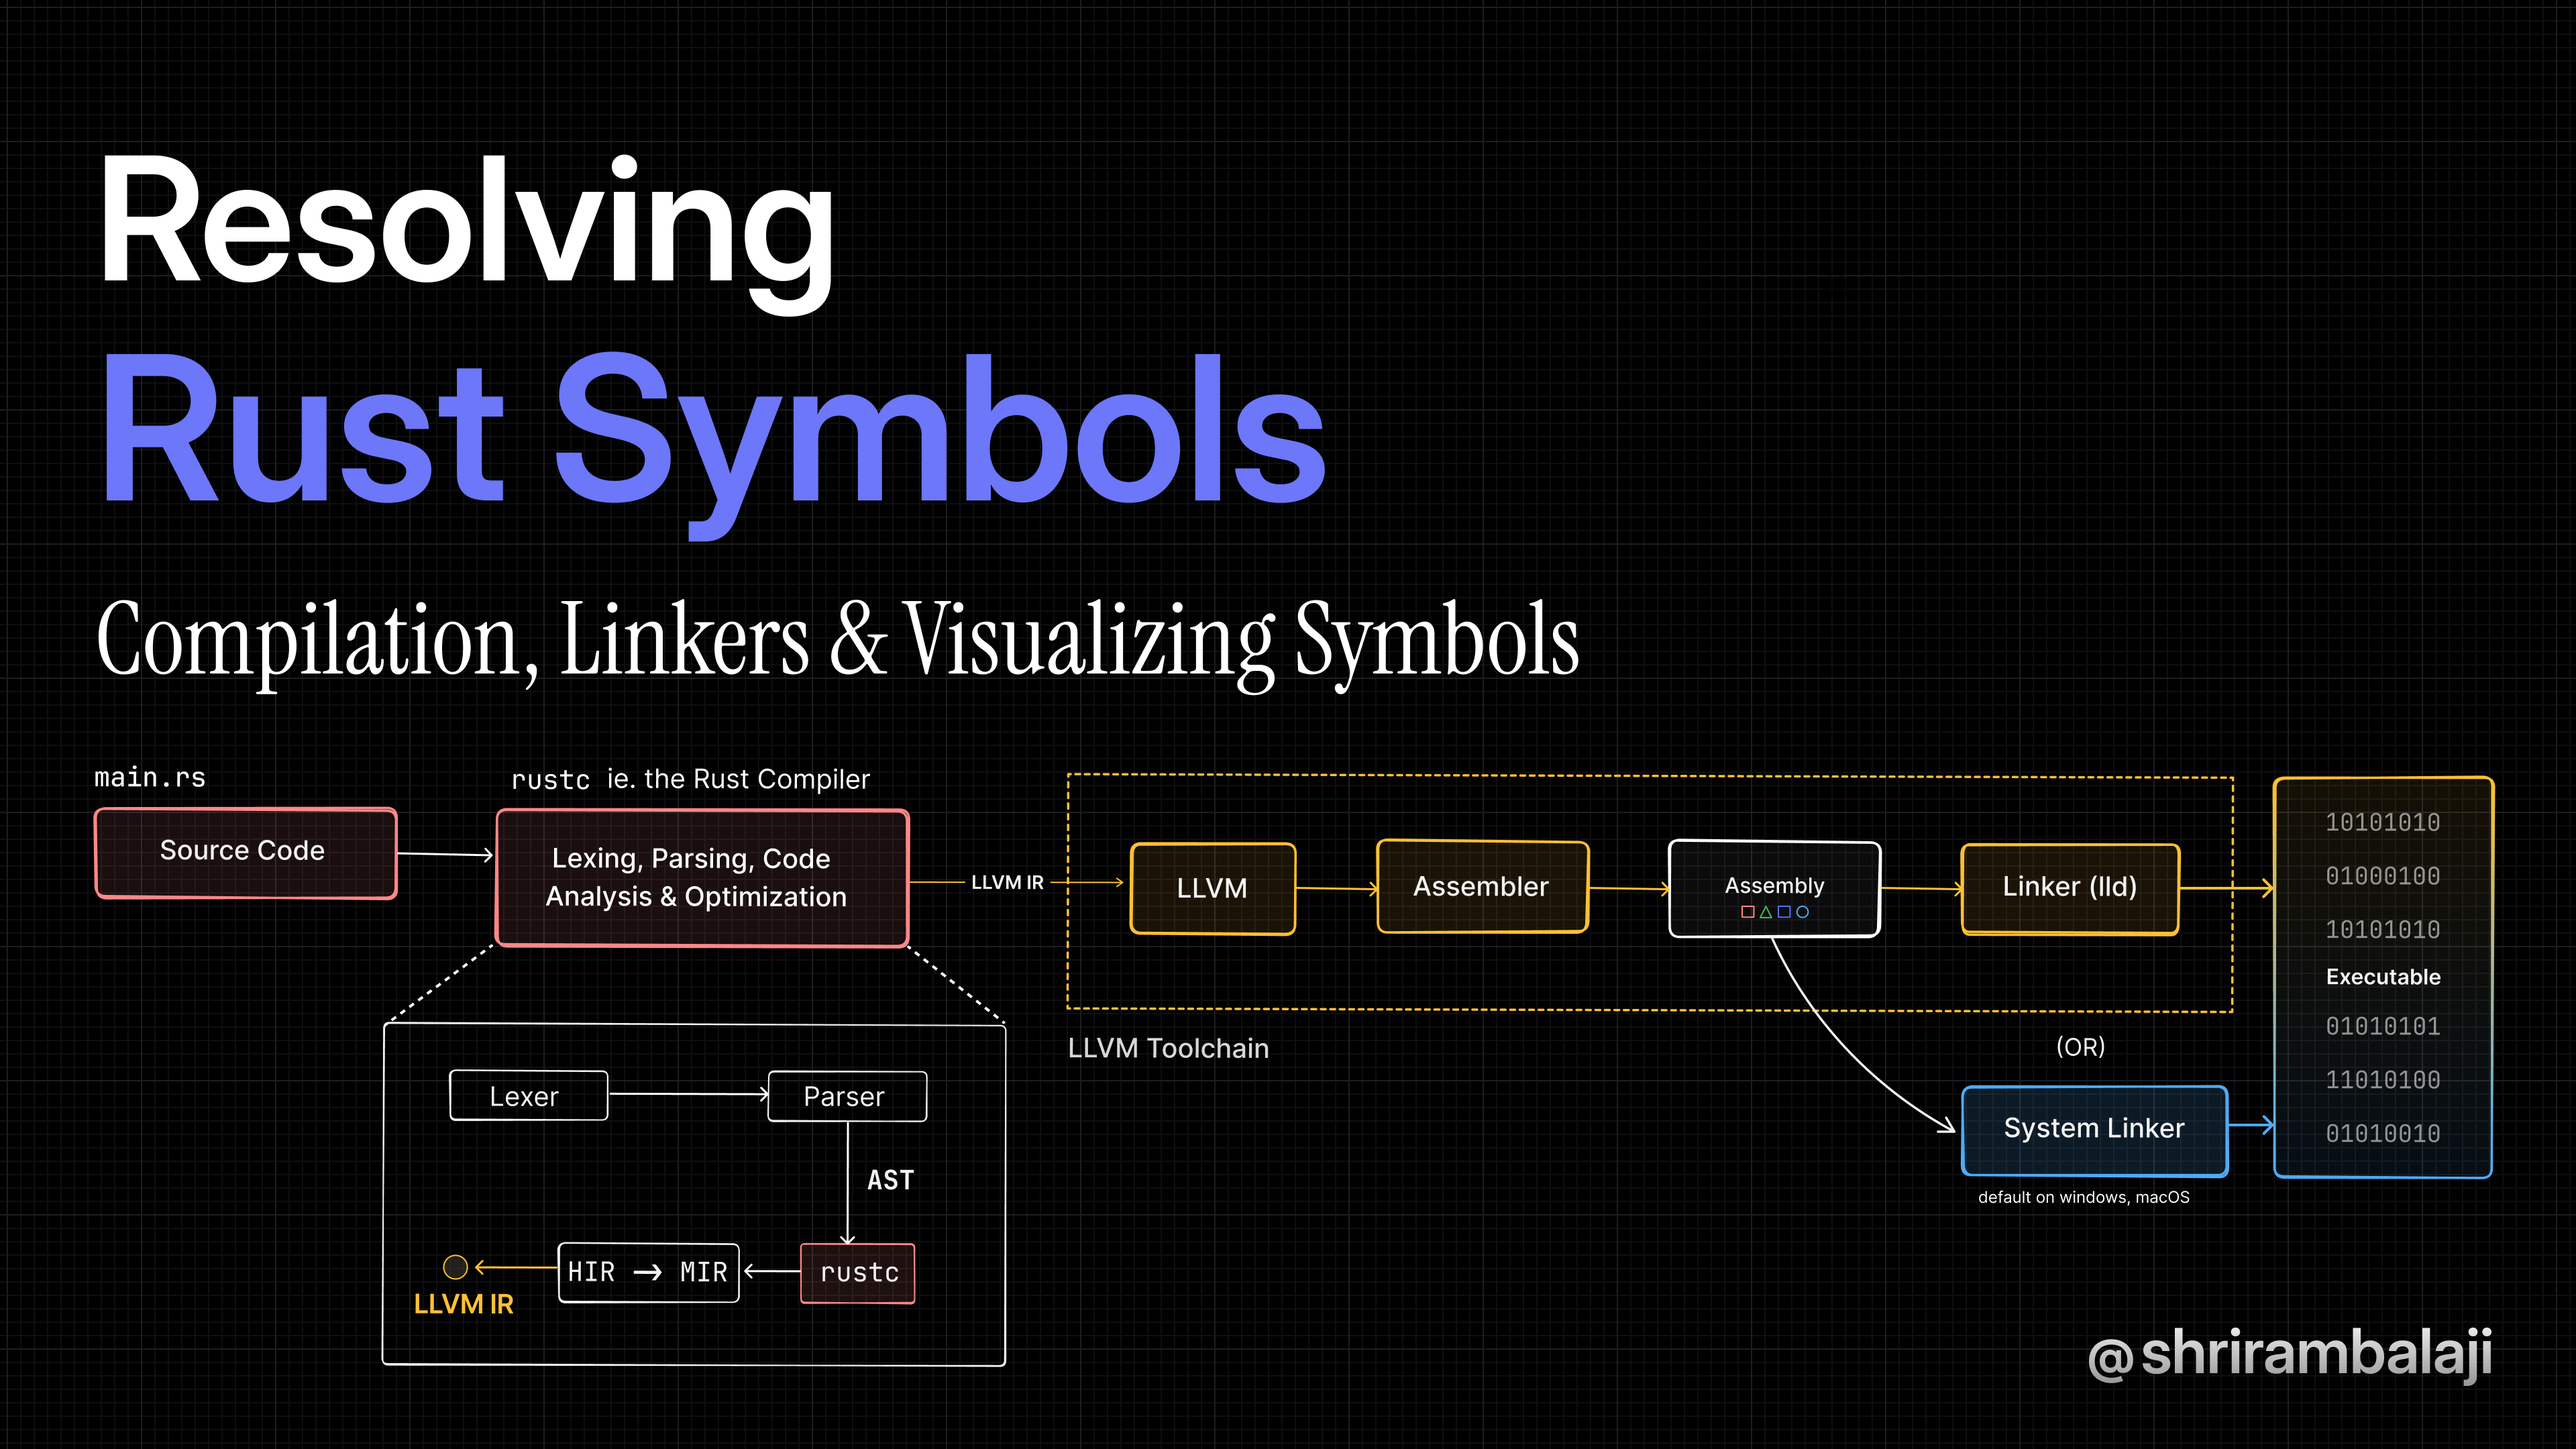
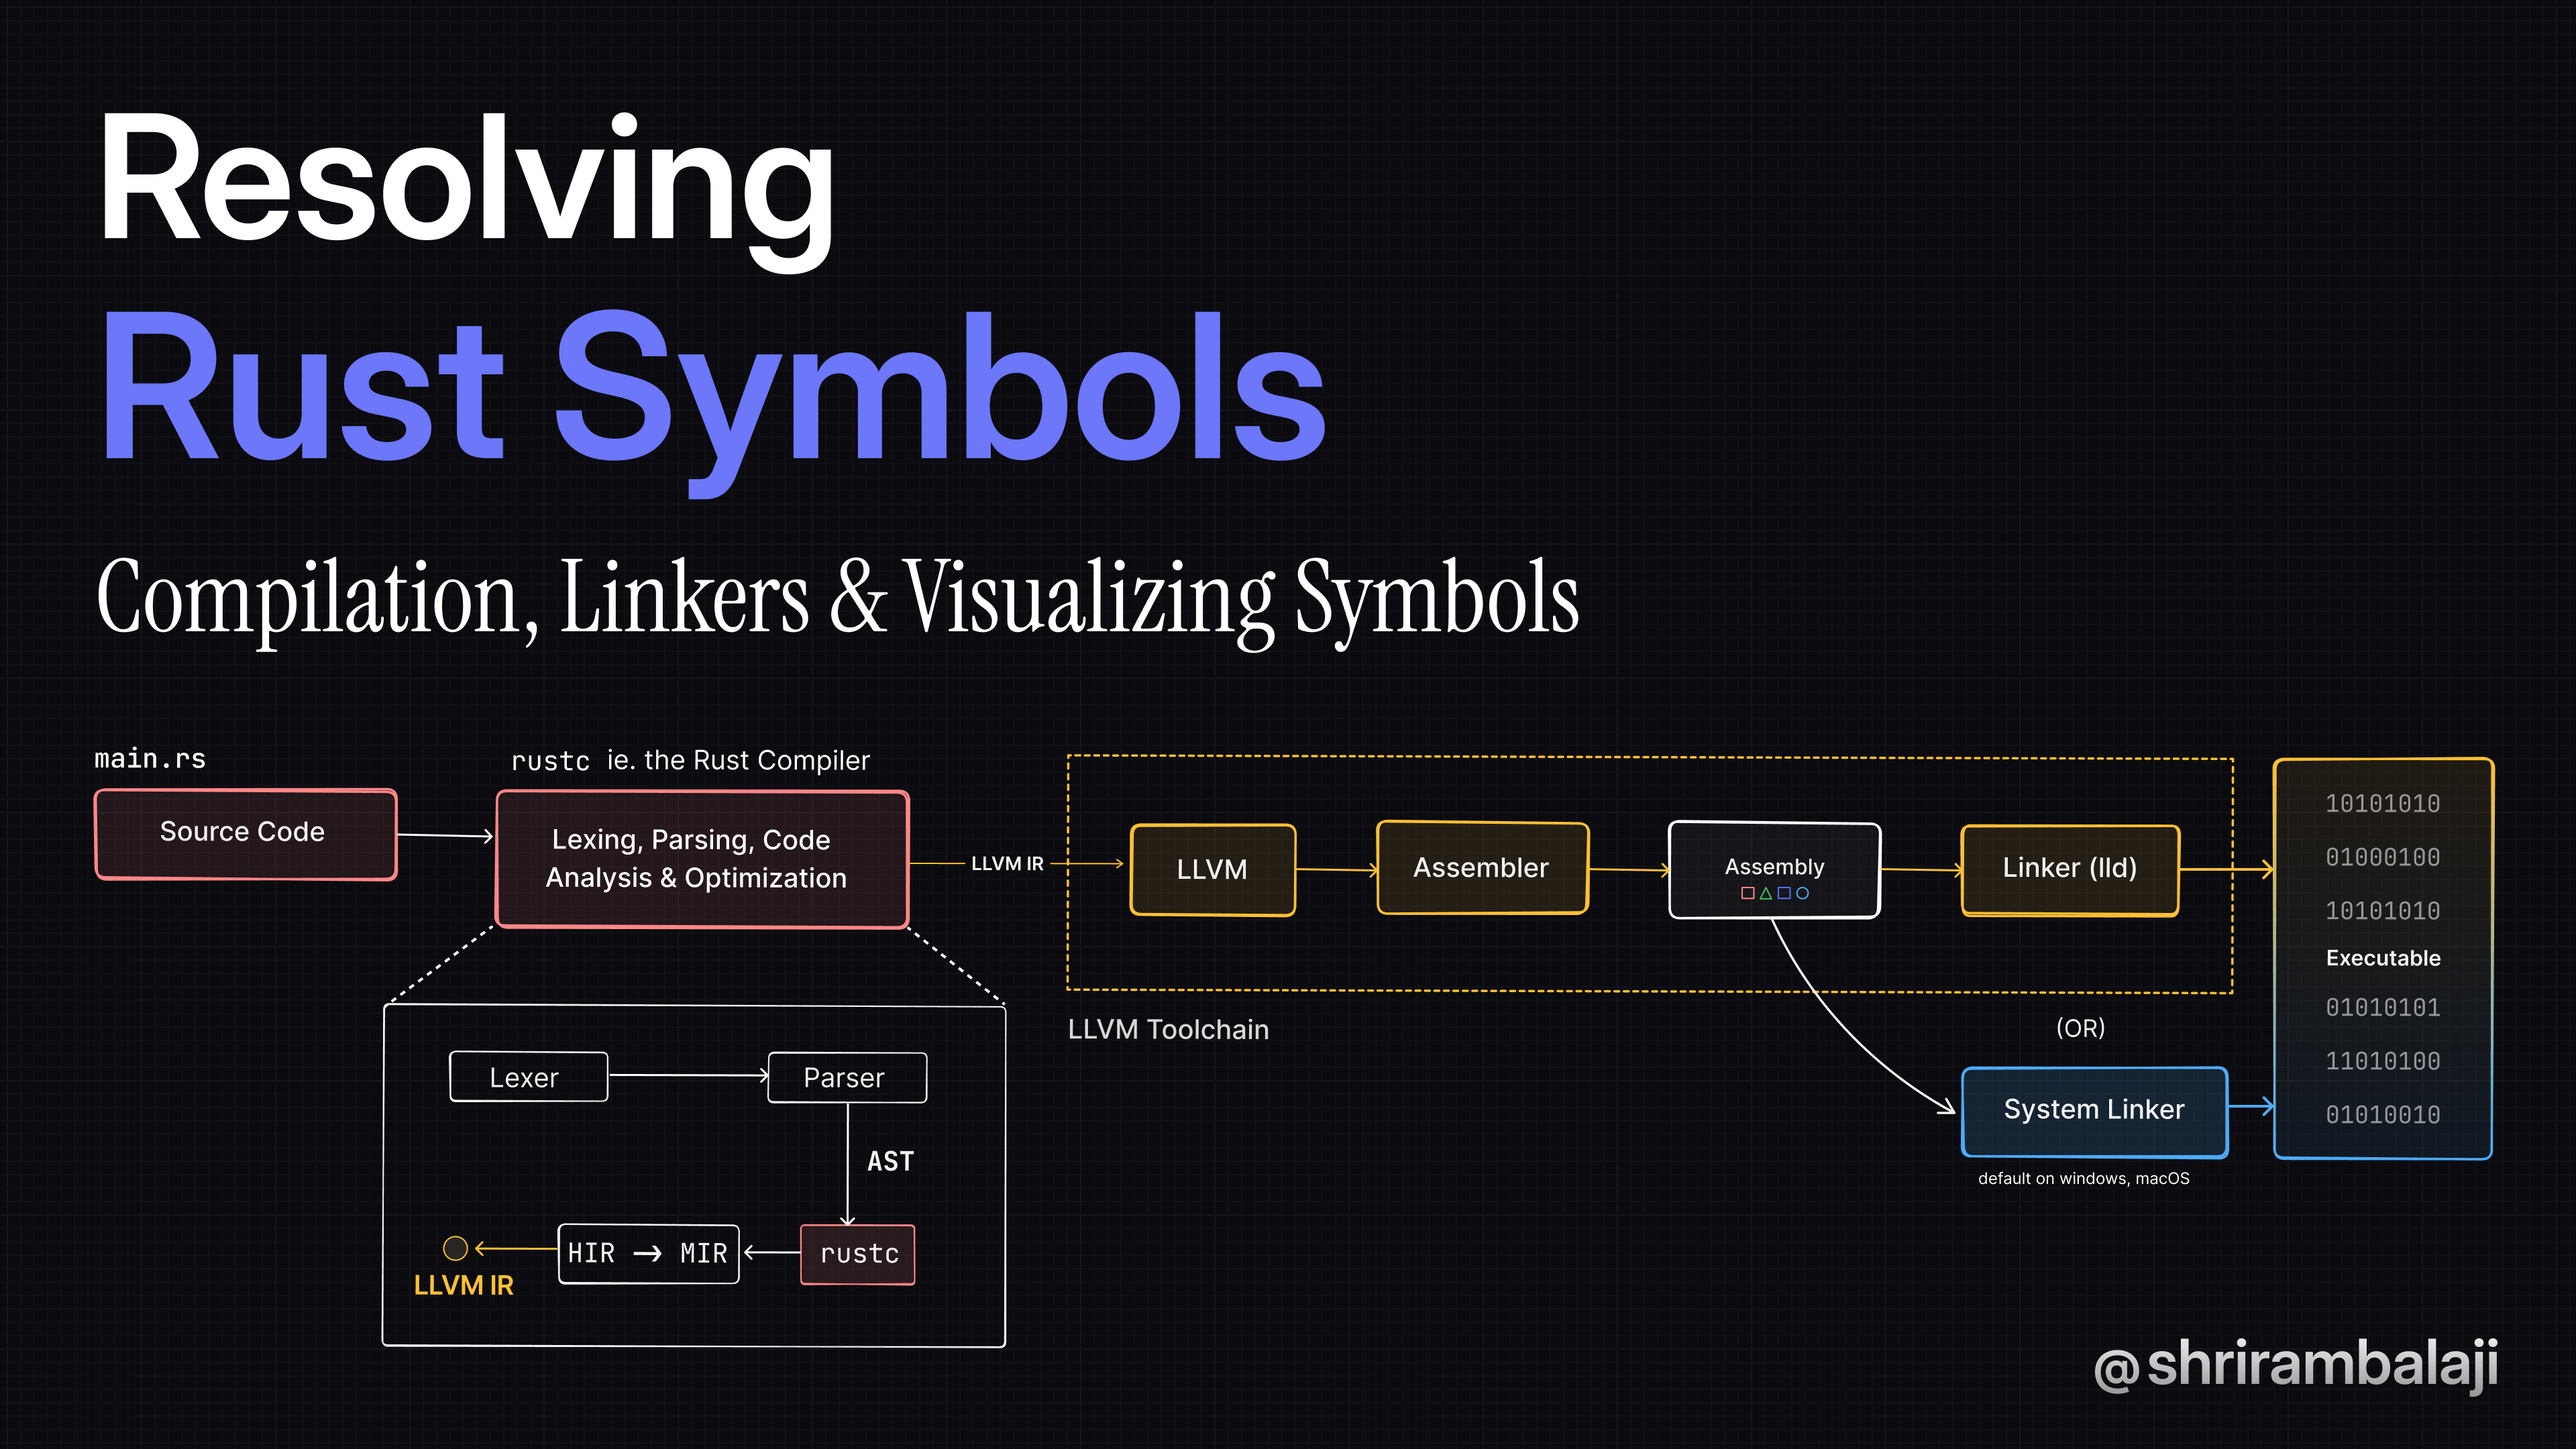
fix: theming issue in code; add theme toggle for hero images by inverting image

diff --git a/src/content/config.ts b/src/content/config.ts
@@ -26,6 +26,8 @@ const post = defineCollection({
 					src: image(),
 					alt: z.string(),
 					contain: z.boolean().optional(),
+					border: z.boolean().optional(),
+					shouldInvert: z.boolean().optional(),
 				})
 				.optional(),
 			draft: z.boolean().default(false),
